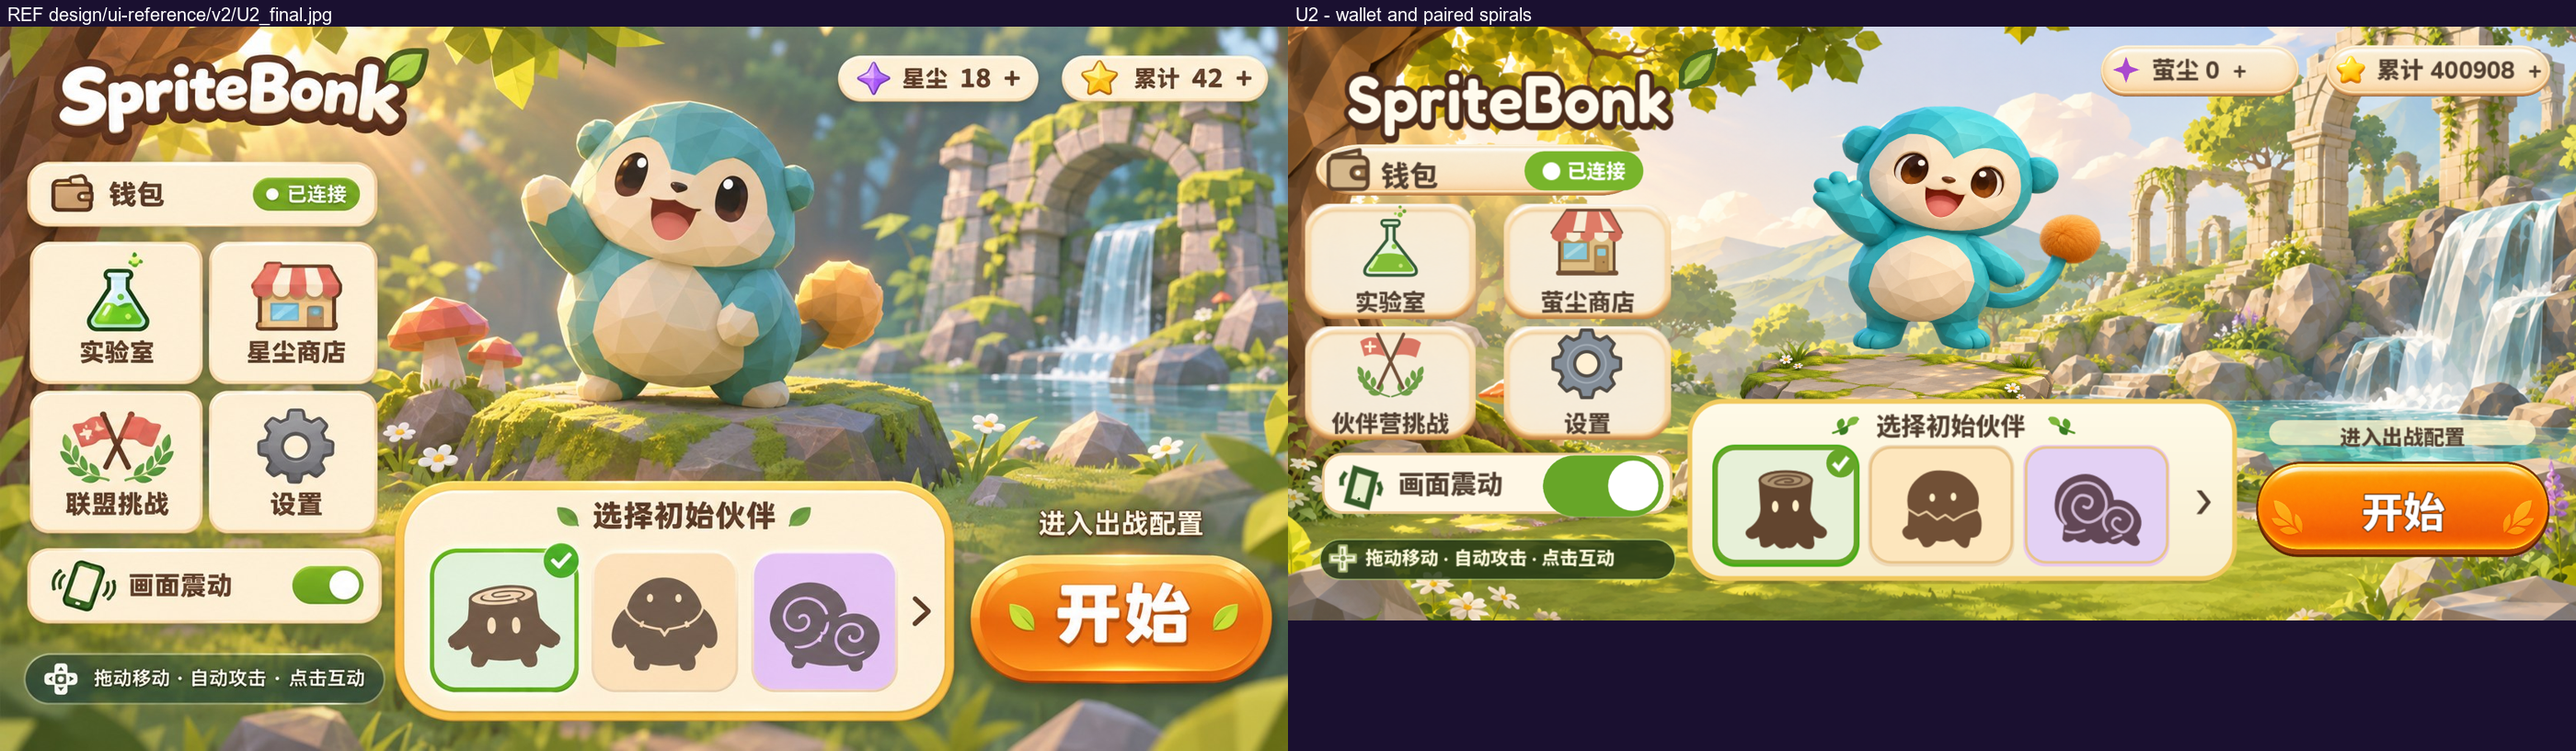
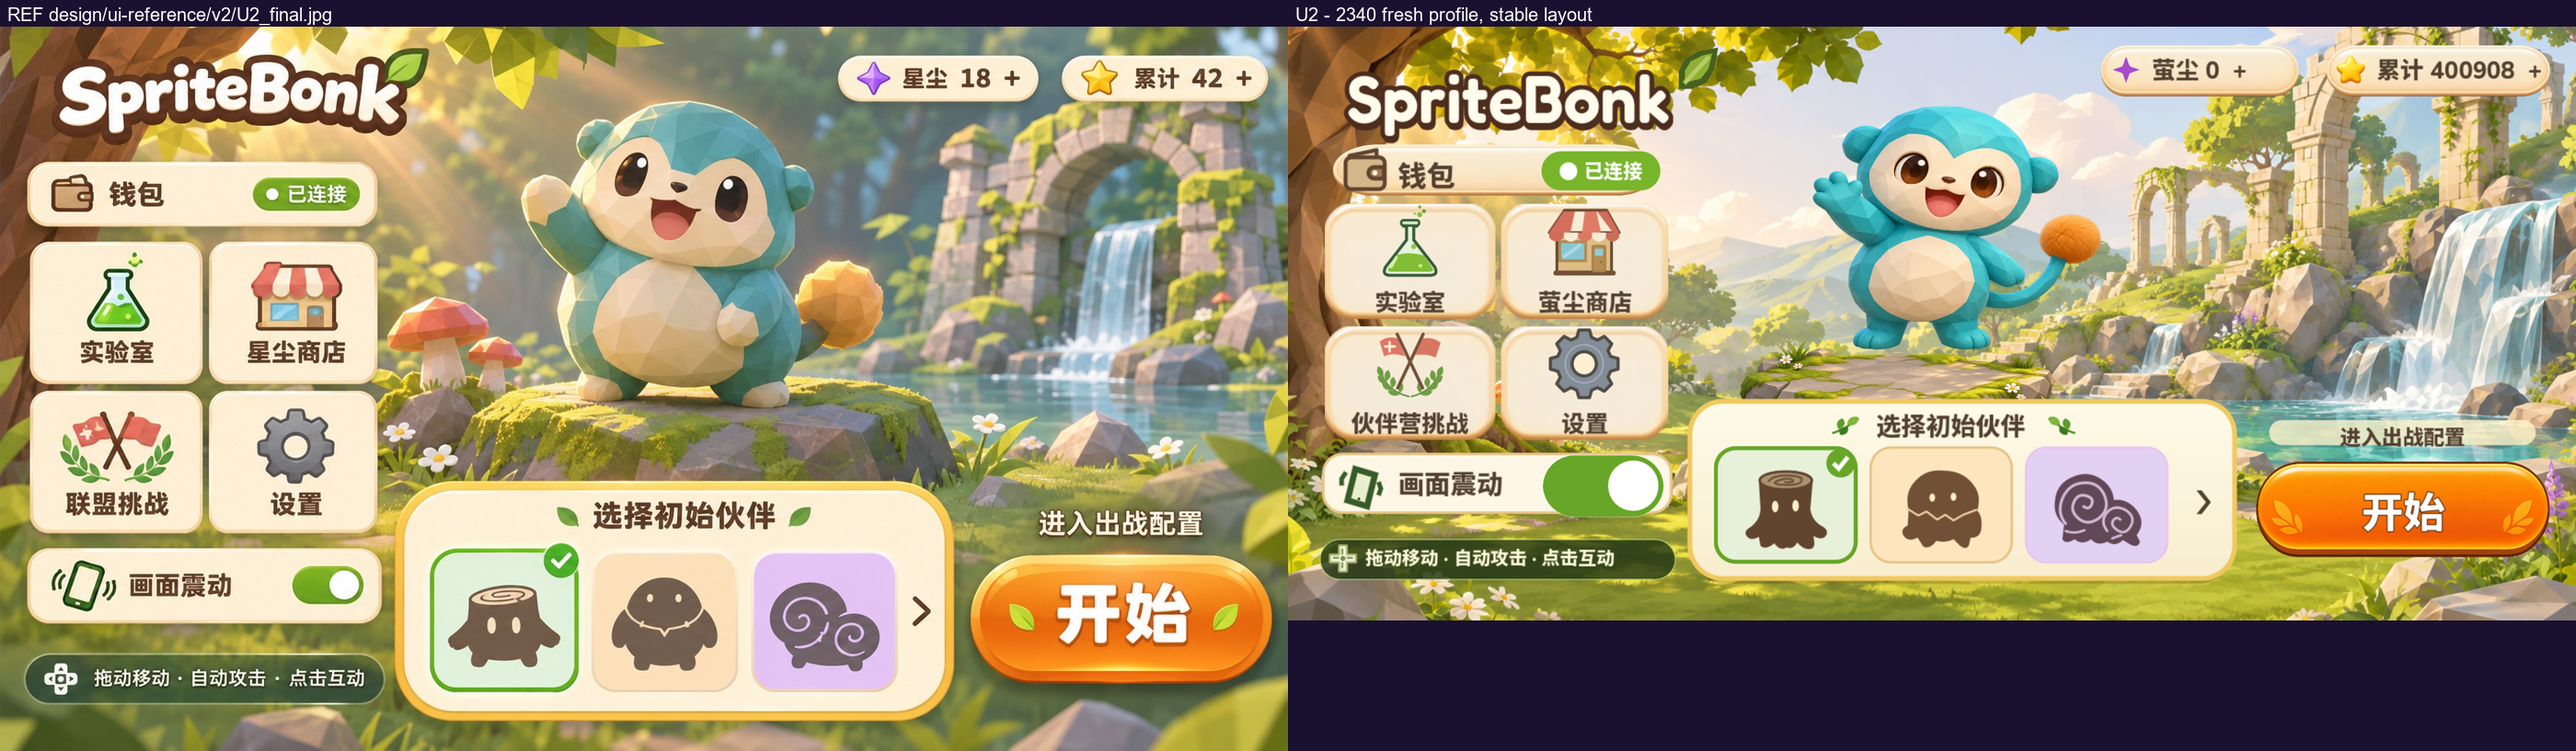
Fix U2 duplicate starter faces and menu relayout drift

diff --git a/Test/make_compare_u2.py b/Test/make_compare_u2.py
@@ -1,7 +1,7 @@
 #!/usr/bin/env python3
 """Build design/ui-reference/compare/U2.png: v2 reference on the left,
 phonehud menu shot on the right, preserving both aspect ratios.
-Usage: make_compare_u2.py <shot-png> [shot-label]"""
+Usage: make_compare_u2.py <shot-png> [shot-label] [output-png]"""
 import sys
 from PIL import Image, ImageDraw, ImageFont
 
@@ -9,7 +9,7 @@ W = 1400
 BAR = 29
 BAR_COLOR = (26, 16, 48)
 REF = "design/ui-reference/v2/U2_final.jpg"
-OUT = "design/ui-reference/compare/U2.png"
+OUT = sys.argv[3] if len(sys.argv) > 3 else "design/ui-reference/compare/U2.png"
 
 shot_path = sys.argv[1]
 shot_label = sys.argv[2] if len(sys.argv) > 2 else "SHOT phonehud 2340x1080 s150 menu (u2_recheck)"

diff --git a/design/ui-alignment-progress.md b/design/ui-alignment-progress.md
@@ -238,3 +238,18 @@ U1 已重开，U3 不得开工（见「关闭门」）。第 9 轮：2340 复验
 - 钱包修正后菜单两档快检均 **114/0**，随后校正双旋涡。最终后台实拍已目检，浅棕钱包、已连接白点及双旋涡均可见，震动往返 PASS，左右对照图已更新。
 - 最终冻结批 `u2-wallet-shell-full-2340.log` **1475/3**、`u2-wallet-shell-full-2400.log` **1573/2**，逐名比较同机基线新增失败均为 0。2400 本轮祝福通过，只余抽屉自动收起与头像暂停可达。退出崩溃仍与 DONE 检查分别记录。
 - 本批提交后连同九项索引提交 U2 关闭签核，关闭状态由主控验收决定。
+
+## U2 双档实拍续核
+
+- 补获 2400×1080、touchScale 1.0 后台实拍，图形进程退出 0，仍有资源释放错误日志。九项内容均可见。
+- 放大第三卡发现重复边框，定位为托盘 SVG 内烘焙的三张底卡与运行时可选按钮同时绘制。托盘中第一卡还固定为绿色，切换伙伴会残留假选中。本轮将托盘保留为外壳，卡面与选中标记统一由现有按钮绘制，并把水系未选边框还原为淡紫。
+- 补验三卡焦点、实际点击进入配置、返回菜单及右箭头循环，检查选中态与物种一致，继续同屏施工。
+- 实际触摸往返三张卡和右箭头均已通过，放大截图时另发现菜单入口在首次打开与返回后横向漂移。原入场动画保存旧布局 x，随后与参考布局重排争写位置。本轮先增加重排位置稳定检查复现，再让手机入场动画只负责淡入，位置交给布局。
+
+## U2 双档实拍续核结果
+
+- 托盘 SVG 已去除三张固定底卡，运行时按钮绘制唯一卡面与选中态。水系未选边框改淡紫，切到火系及水系时原木桩卡恢复未选，重复边框与假选中均已由实拍排除。
+- 新增重排稳定检查先得到 `u2-relayout-red-2400` **115/1**，五入口全部漂移。手机入场改为淡入后，`u2-relayout-final` 两档菜单均 **115/0**，原 114 项完整保留。
+- 最终完整批 `u2-relayout-full-2340.log` **1476/3**、`u2-relayout-full-2400.log` **1566/3**。新增一条稳定性检查，逐名对比同机起点新增失败均为 0，剩余仍是三类既有红。2400 原 home 与独立避让检查均通过。
+- 两档均用独立后台桌面、新建隔离用户目录和 90 个 process_frame 等待后实拍，避免入场中途及夹具沿用已看提示状态。三卡真实触摸进入配置并返回、箭头三次循环、开始进入对应水系配置、菜单位置稳定及震动往返共 **9/9** 项双档全部通过。已目检初始态和异选态，无 SCRIPT ERROR；两次图形进程均在完成保存后发生既有退出崩溃。
+- 2340 对照为 `compare/U2.png`，新增 2400 对照 `compare/U2_2400.png`。拼图脚本仅增加可选输出路径，默认路径继续兼容。主控关闭签核材料更新至本批，U2 仍待验收。
